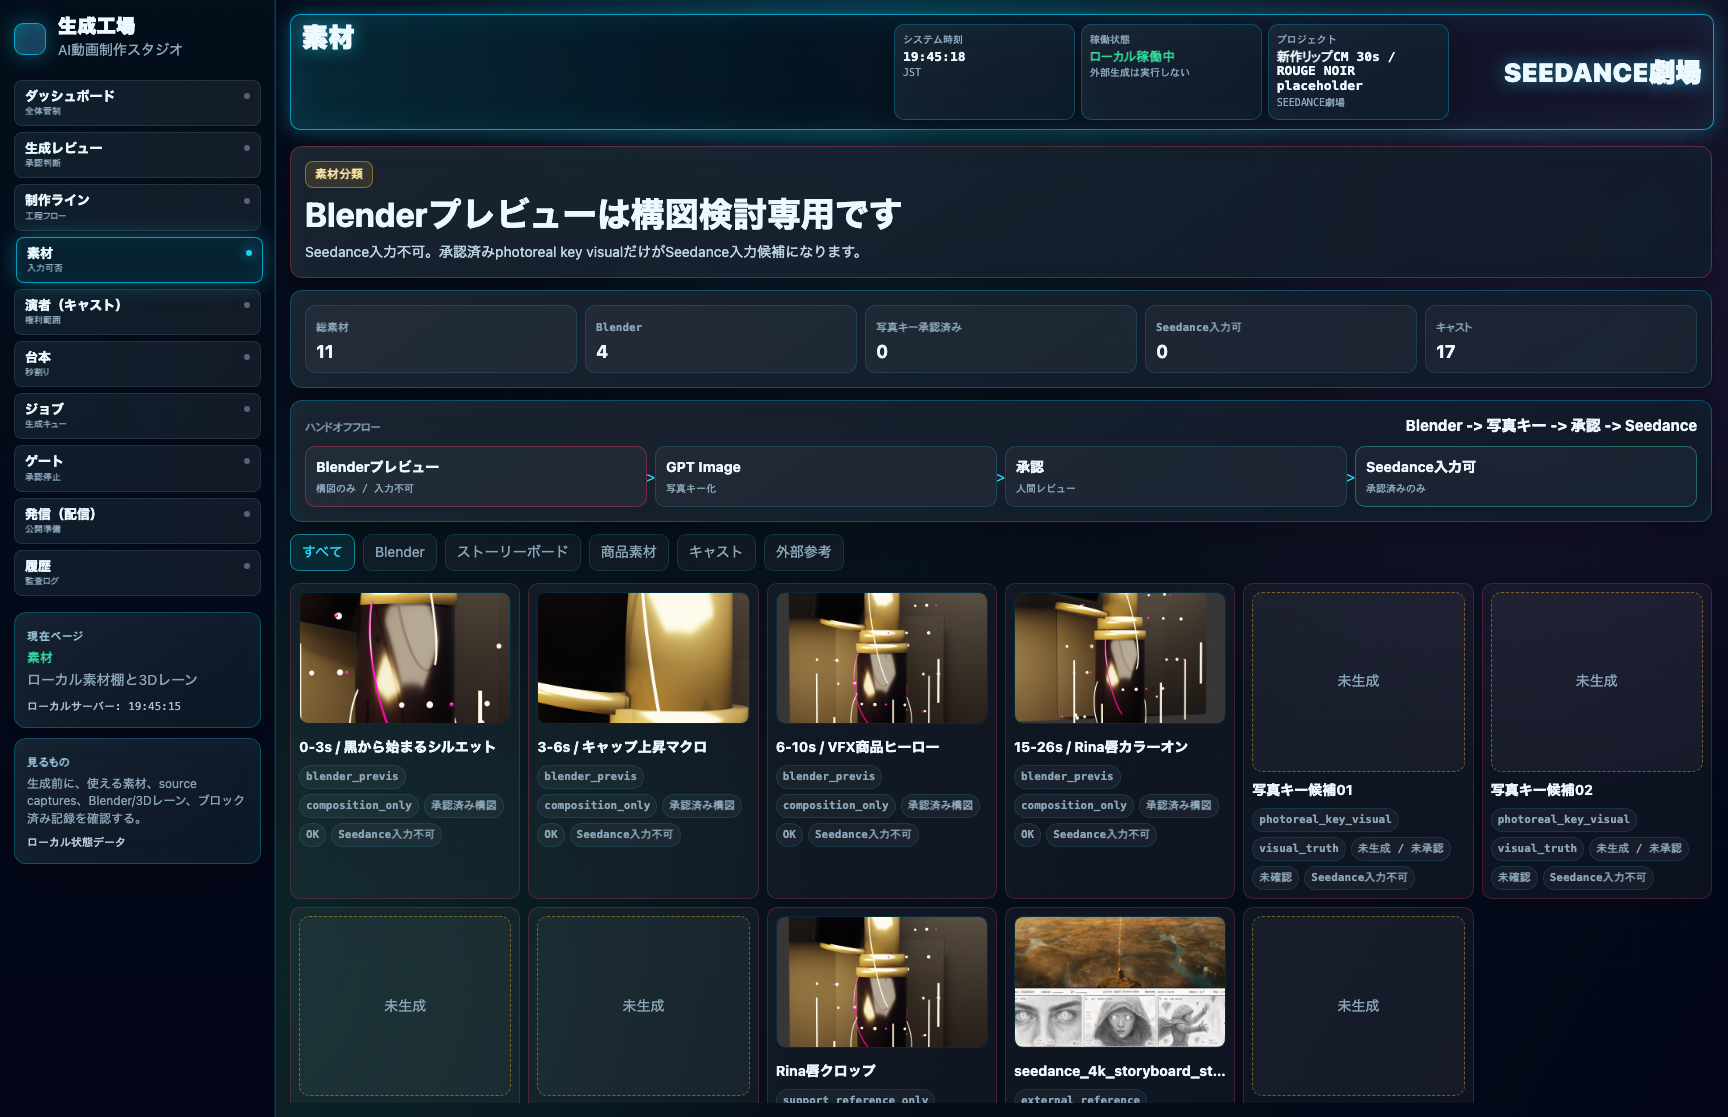
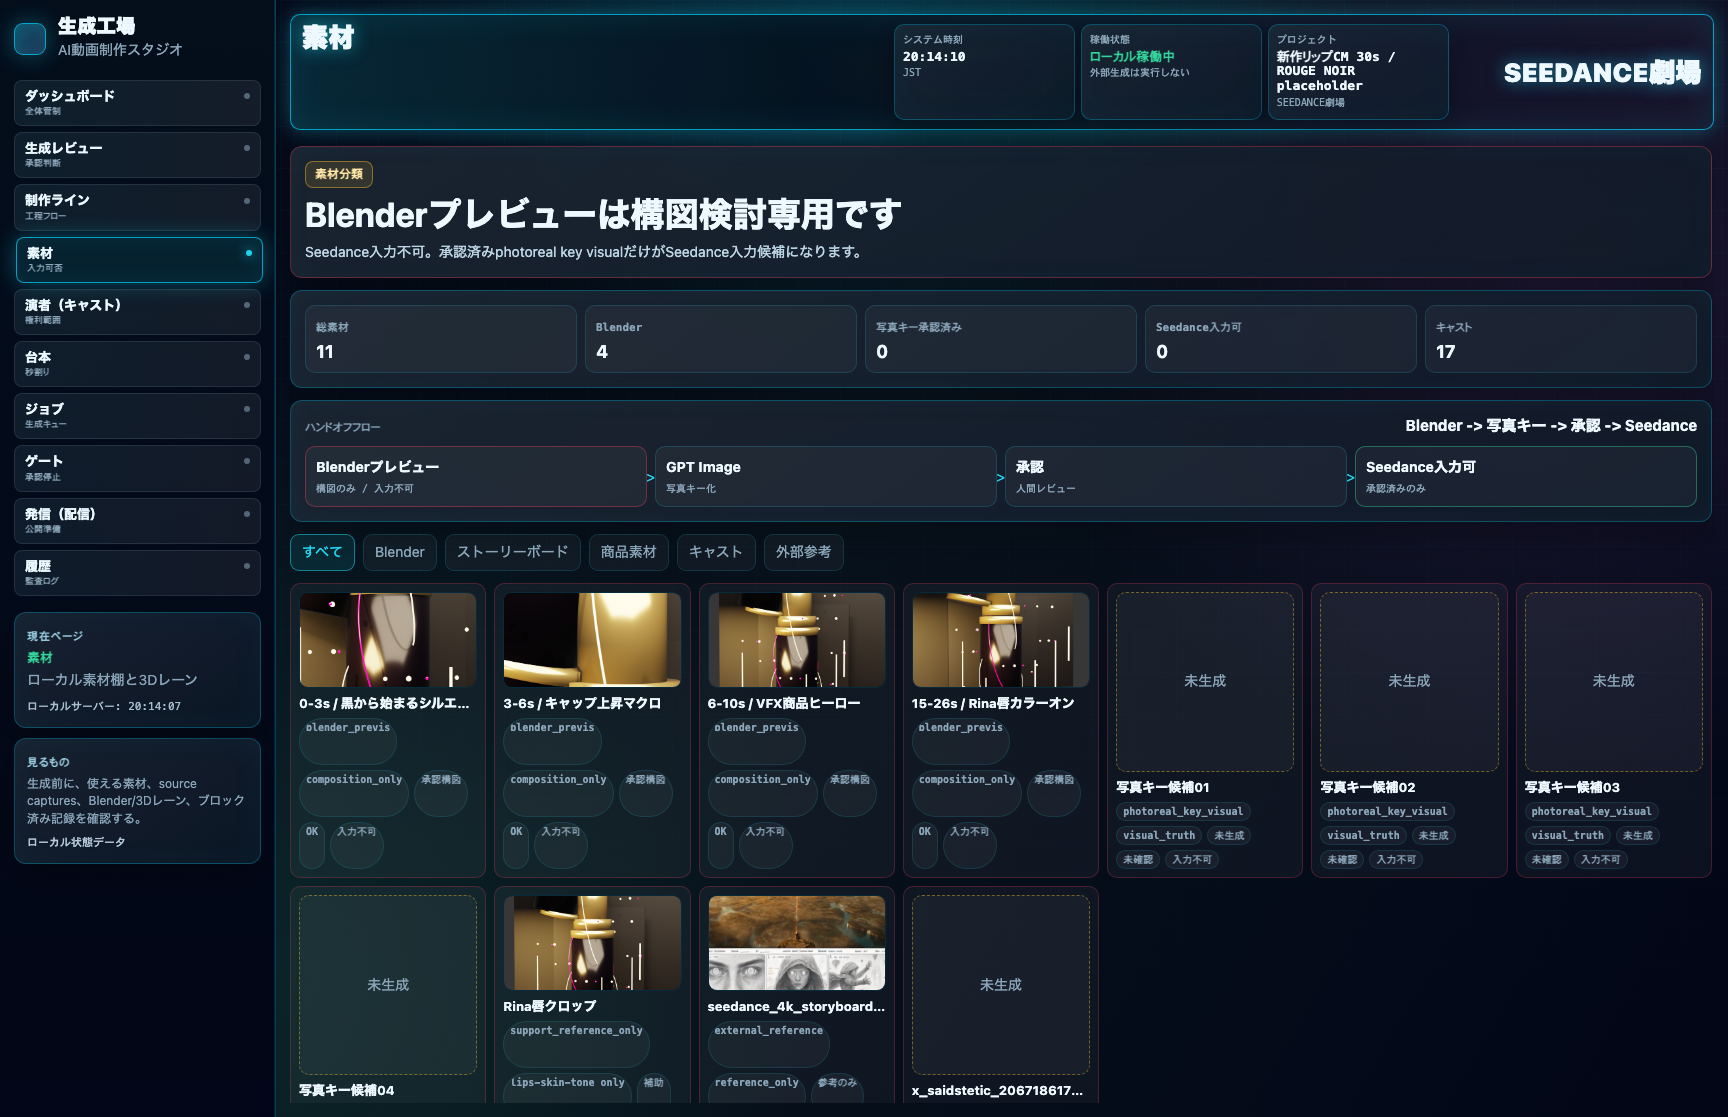
Polish factory UI assets and runtime prompts

diff --git a/workspace/ui/factory-pages.js b/workspace/ui/factory-pages.js
@@ -564,7 +564,7 @@ function renderAssets() {
     image: panel.generated_image,
     kind: "blender_previs",
     role: "composition_only",
-    approval: "承認済み構図",
+    approval: "承認構図",
     rights: "OK",
     allowed: false,
   }));
@@ -573,7 +573,7 @@ function renderAssets() {
     image: "",
     kind: "photoreal_key_visual",
     role: "visual_truth",
-    approval: "未生成 / 未承認",
+    approval: "未生成",
     rights: "未確認",
     allowed: false,
   }));
@@ -582,7 +582,7 @@ function renderAssets() {
     image: data.supportImage,
     kind: "support_reference_only",
     role: "lips-skin-tone only",
-    approval: "補助参照",
+    approval: "補助",
     rights: "OK",
     allowed: false,
   }] : [];
@@ -636,7 +636,7 @@ function renderAssets() {
               <span>${html(card.role)}</span>
               <span>${html(card.approval)}</span>
               <span>${html(card.rights)}</span>
-              <span>${card.allowed ? "Seedance入力可" : "Seedance入力不可"}</span>
+              <span>${card.allowed ? "入力可" : "入力不可"}</span>
             </div>
           </article>
         `).join("")}
@@ -754,8 +754,8 @@ function renderGeneration() {
         </article>
       </main>
       <aside class="p0-checklist">
-        <div class="p0-panel-head"><span>承認チェックリスト</span><strong>未完了 0/5</strong></div>
-        ${["構図は意図通りか", "商品が美しく見えるか", "質感・ライティングの品質", "色味はブランドに合うか", "権利・素材の利用範囲"].map(item => `<label><input type="checkbox" disabled> ${html(item)}</label>`).join("")}
+        <div class="p0-panel-head"><span>承認チェックリスト</span><strong id="reviewChecklistCount">未完了 0/5</strong></div>
+        ${["構図は意図通りか", "商品が美しく見えるか", "質感・ライティングの品質", "色味はブランドに合うか", "権利・素材の利用範囲"].map((item, index) => `<label><input type="checkbox" data-review-check="${index}"> ${html(item)}</label>`).join("")}
         <div class="p0-actions">
           <button type="button">差し戻し</button>
           <button type="button">修正依頼</button>
@@ -865,6 +865,30 @@ function renderPageContent() {
   document.getElementById("pageContent").innerHTML = (renderers[pageState.page] || renderStudioLines)();
   setupBroadcastCopy();
   setupGenerationCopy();
+  setupReviewChecklist();
+}
+
+function setupReviewChecklist() {
+  if (!document.querySelectorAll) return;
+  const checks = [...document.querySelectorAll("[data-review-check]")];
+  const count = document.getElementById("reviewChecklistCount");
+  if (!checks.length || !count) return;
+  const key = `seedance-review-checklist:${pageState.state.meta?.project || "default"}`;
+  const storage = typeof localStorage === "undefined" ? null : localStorage;
+  const saved = storage ? JSON.parse(storage.getItem(key) || "{}") : {};
+  const update = () => {
+    const done = checks.filter(input => input.checked).length;
+    count.textContent = done === checks.length ? `完了 ${done}/${checks.length}` : `未完了 ${done}/${checks.length}`;
+    storage?.setItem(key, JSON.stringify(Object.fromEntries(checks.map(input => [input.dataset.reviewCheck, input.checked]))));
+  };
+  checks.forEach(input => {
+    input.checked = Boolean(saved[input.dataset.reviewCheck]);
+    if (!input.dataset.ready) {
+      input.dataset.ready = "1";
+      input.addEventListener("change", update);
+    }
+  });
+  update();
 }
 
 function setupBroadcastCopy() {

diff --git a/workspace/ui/factory-futuristic.css b/workspace/ui/factory-futuristic.css
@@ -4315,6 +4315,10 @@ body:is([data-page="factory"], [data-page="assets"], [data-page="publish"], [dat
   display: block;
 }
 
+body[data-page="assets"] {
+  overflow-x: hidden;
+}
+
 .danger-label,
 .warn-label {
   display: inline-flex;
@@ -4348,6 +4352,7 @@ body:is([data-page="factory"], [data-page="assets"], [data-page="publish"], [dat
   display: grid;
   gap: 12px;
   min-width: 0;
+  max-width: 100%;
 }
 
 .p0-dashboard {
@@ -4887,11 +4892,17 @@ body:is([data-page="factory"], [data-page="assets"], [data-page="publish"], [dat
 }
 
 .p0-asset-grid {
-  grid-template-columns: repeat(auto-fill, minmax(210px, 1fr));
+  grid-template-columns: repeat(auto-fill, minmax(min(100%, 188px), 1fr));
+  max-width: 100%;
+  overflow-x: hidden;
 }
 
 .p0-asset-grid article {
+  display: grid;
+  grid-template-rows: auto auto 1fr;
+  align-content: start;
   padding: 8px;
+  overflow: hidden;
 }
 
 .p0-asset-grid article.blocked {
@@ -4900,14 +4911,16 @@ body:is([data-page="factory"], [data-page="assets"], [data-page="publish"], [dat
 
 .p0-asset-grid img,
 .p0-asset-empty {
-  height: 132px;
+  height: 96px;
 }
 
 .p0-asset-grid strong {
   display: block;
-  margin-top: 8px;
+  margin-top: 7px;
   overflow: hidden;
   color: var(--ink);
+  font-size: 13px;
+  line-height: 1.25;
   text-overflow: ellipsis;
   white-space: nowrap;
 }
@@ -4916,7 +4929,7 @@ body:is([data-page="factory"], [data-page="assets"], [data-page="publish"], [dat
   display: flex;
   flex-wrap: wrap;
   gap: 5px;
-  margin-top: 8px;
+  margin-top: 7px;
 }
 
 .p0-badges span {
@@ -4925,6 +4938,8 @@ body:is([data-page="factory"], [data-page="assets"], [data-page="publish"], [dat
   border: 1px solid rgba(34, 211, 238, 0.14);
   border-radius: 999px;
   background: rgba(255, 255, 255, 0.04);
+  font-size: 10px;
+  line-height: 1.1;
   overflow: hidden;
   text-overflow: ellipsis;
   white-space: nowrap;